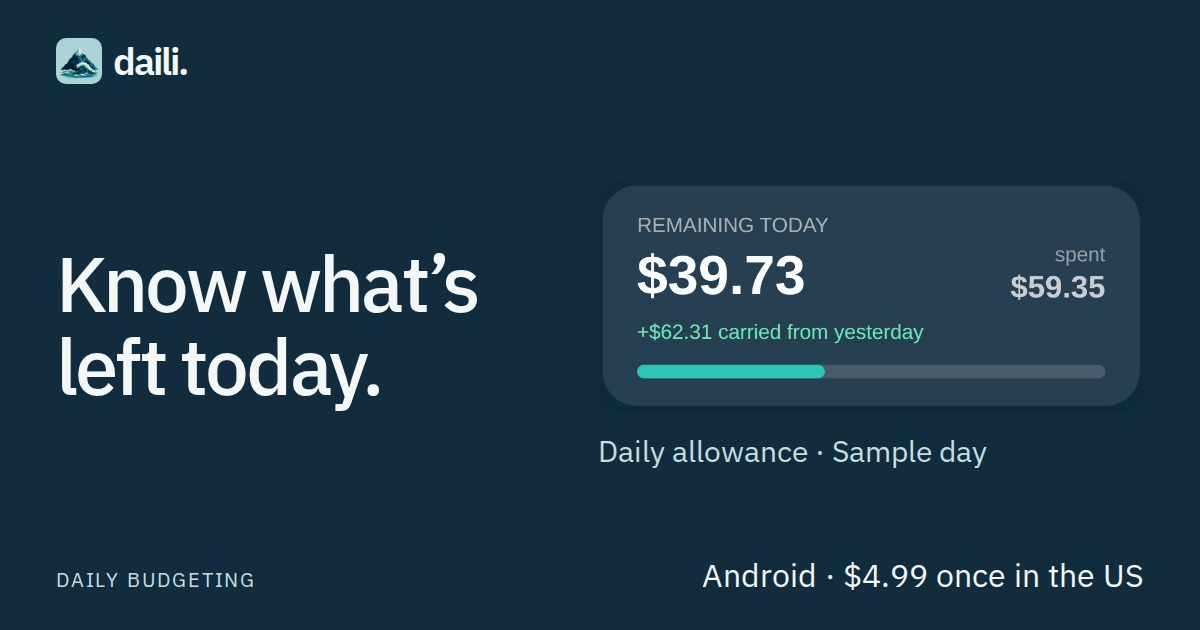
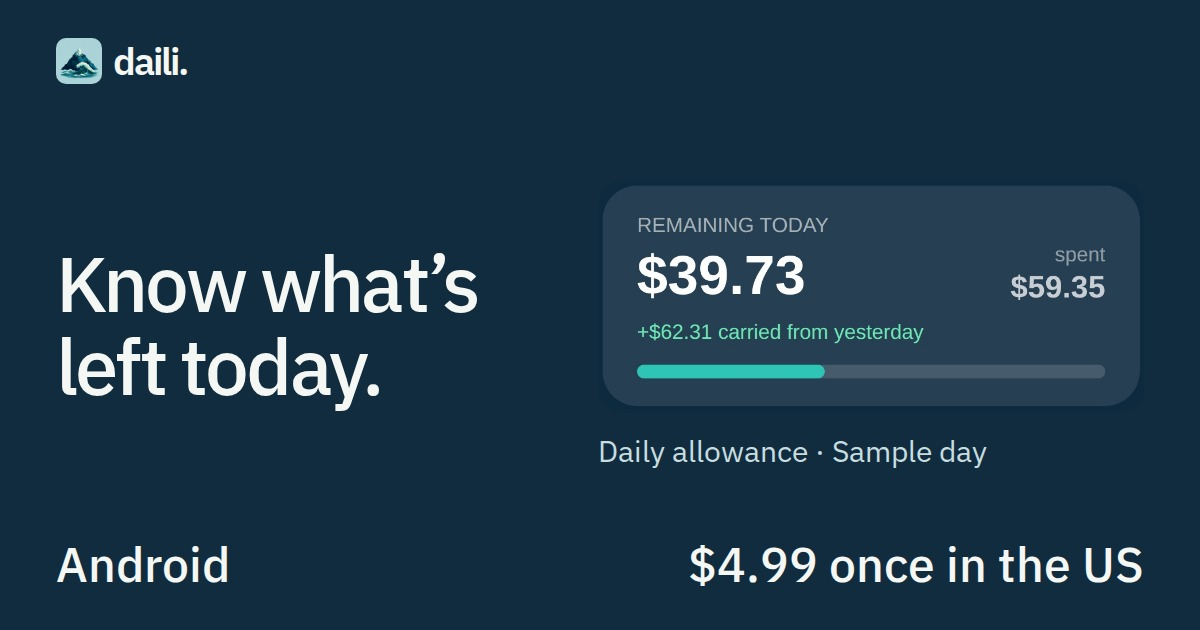
Publish website 1.1.5 (#10)
Move the monthly-budget explanation and daily allowance calculator before receipt and voice entry. Simplify the public demo captions and refresh the social-share image with clearer Android and price text.

Publish the approved website 1.1.5 export through the existing GitHub Pages site. The change is limited to `docs/app/index.html` and `docs/app/assets/share.jpg`.

Validation: desktop, 360px, and 320px browser checks passed for section order, calculator results and invalid inputs, demo playback/captions, FAQs, Google Play destinations, and no-JavaScript access. All 19 served files match the production build hashes. Public review/download routes return 404, and all files outside `docs/app/` match the existing repository.

Changed region(s): [[0.555, 0.8444, 0.9558, 0.9349], [0.0308, 0.8746, 0.2158, 0.9349]]

diff --git a/docs/app/index.html b/docs/app/index.html
@@ -1,7 +1,8 @@
 <!doctype html><html lang="en"><head><meta charset="utf-8"><meta name="viewport" content="width=device-width, initial-scale=1"><meta name="theme-color" content="#f5f7f4"><meta name="referrer" content="strict-origin-when-cross-origin"><title>Daili — Know what’s left today.</title><meta name="description" content="A clear daily allowance. Private expense tracking. Daili for Android is $4.99 once in the US, with no account, bank connection, or subscription."><meta name="robots" content="index, follow"><link rel="canonical" href="https://corbincald.github.io/daili/app/"><meta property="og:type" content="website"><meta property="og:title" content="Daili — Know what’s left today."><meta property="og:description" content="A clear daily allowance. Private expense tracking. Daili for Android is $4.99 once in the US, with no account, bank connection, or subscription."><meta property="og:url" content="https://corbincald.github.io/daili/app/"><meta property="og:image" content="https://corbincald.github.io/daili/app/assets/share.jpg"><meta property="og:image:width" content="1200"><meta property="og:image:height" content="630"><meta name="twitter:card" content="summary_large_image"><link rel="icon" href="./assets/icon.png"><link rel="stylesheet" href="./styles.css"><link rel="preload" href="./assets/fonts/ibm-plex-sans-latin.woff2" as="font" type="font/woff2" crossorigin></head><body><a class="skip-link" href="#main">Skip to content</a>
   <header class="header wrap"><a class="brand" href="./" aria-label="Daili home"><img src="./assets/icon.png" width="38" height="38" alt=""><span>daili<span class="brand-dot">.</span></span></a><nav aria-label="Main"><a href="#how-it-works">How it works</a><a href="#expense-entry">Expense entry</a><a href="#privacy">Why Daili</a><a href="#questions">Questions</a></nav><a class="nav-cta" href="#get-daili">Get Daili <span aria-hidden="true">↗</span></a></header>
   <main id="main"><section class="hero wrap" aria-labelledby="hero-title"><div class="hero-copy"><p class="eyebrow">DAILY BUDGETING FOR ANDROID</p><h1 id="hero-title">Know what’s<br><em>left today.</em></h1><p class="hero-description">Your monthly budget, broken down day-by-day. Type an expense, scan a receipt, or use English voice entry. See what’s left before your next purchase.</p><p class="hero-ownership">No account. No bank connection. No subscription.</p><div class="hero-actions"><a class="button " data-play-link data-placement="hero" href="https://play.google.com/store/apps/details?id=com.corbincald.daili&amp;utm_source=website&amp;utm_campaign=daili_relaunch_2026_today">Get Daili for Android<span aria-hidden="true">↗</span></a><a class="text-link" href="#daily-demo">Try the daily idea <span aria-hidden="true">↓</span></a></div><p class="purchase-note">$4.99 once in the US. Yours without a subscription.</p></div><div class="hero-art"><div class="phone hero-phone"><div class="phone-display"><div class="phone-status-bar" aria-hidden="true"><span>9:41</span><span class="status-camera"></span><svg class="status-icons" viewBox="0 0 52 16" fill="currentColor"><path d="M1 5a12 12 0 0 1 16 0l-8 9z"/><path d="M22 14V10h3v4zm5 0V6h3v8zm5 0V2h3v12z"/><path d="M42 1h4v2h3v12H39V3h3z"/></svg></div><img src="./assets/today.jpg" width="1080" height="2400" alt="Daili’s Today screen: $39.73 remaining, $59.35 spent, and $62.31 carried from yesterday. Sample expenses." fetchpriority="high"></div></div><span class="image-caption">Actual app · Sample day</span></div></section>
-  <div class="trust-strip"><div class="wrap"><span><i aria-hidden="true">✓</i> One-time purchase</span><span><i aria-hidden="true">✓</i> No bank connection</span><span><i aria-hidden="true">✓</i> No in-app ads</span><span><i aria-hidden="true">✓</i> No account needed</span></div></div><section class="entry-section" id="expense-entry" aria-labelledby="entry-title">
+  <div class="trust-strip"><div class="wrap"><span><i aria-hidden="true">✓</i> One-time purchase</span><span><i aria-hidden="true">✓</i> No bank connection</span><span><i aria-hidden="true">✓</i> No in-app ads</span><span><i aria-hidden="true">✓</i> No account needed</span></div></div><section class="section wrap" id="how-it-works" aria-labelledby="how-title"><div class="section-intro"><p class="eyebrow">FROM PLAN TO DAILY ALLOWANCE</p><h2 id="how-title">Make your plan.<br><em>See your day.</em></h2><p>You don’t need another spreadsheet to keep up with. Just a plan, your everyday expenses, and a moment to check in.</p></div><div class="steps"><article><span class="step-number">01 / MAKE A LITTLE ROOM</span><h3>Start with your month.</h3><p>Set a monthly spending cap and recurring expenses. Daili turns what’s left into your daily allowance.</p><div class="step-line" aria-hidden="true"><span>MONTHLY PLAN</span><span>→</span><strong>TODAY</strong></div></article><article><span class="step-number">02 / LIVE YOUR DAY</span><h3>A coffee. A bus. A bite.</h3><p>Log purchases as you go. Add them by hand, scan a receipt, or use optional English voice entry.</p><div class="expense-mini" aria-hidden="true"><span>Morning coffee</span><strong>$4.75</strong></div></article><article><span class="step-number">03 / KEEP YOUR PERSPECTIVE</span><h3>Tomorrow comes with you.</h3><p>Spend a little less or a little more? Your rollover carries it forward. Check your pace across the bigger picture.</p><div class="step-line" aria-hidden="true"><span>YESTERDAY</span><span>↳</span><strong>TODAY</strong></div></article></div></section>
+  <section class="demo-section" id="daily-demo" aria-labelledby="demo-title"><div class="wrap demo-layout"><div><p class="eyebrow">LET’S MAKE IT TANGIBLE</p><h2 id="demo-title">A whole month.<br><em>A simpler number.</em></h2><p>Here’s the idea: start with your monthly plan, take out recurring expenses, and divide what’s left across the month.</p><p class="demo-note">Try this illustration. In Daili, your logged expenses and rollover update what’s left today.</p></div><div class="calculator"><form id="allowance-form"><div class="calculator-heading"><span>Your example month</span><span class="demo-tag">TRY IT</span></div><label for="monthly">Monthly spending cap <span>USD</span></label><div class="input-money"><span aria-hidden="true">$</span><input id="monthly" name="monthly" type="number" min="0" max="1000000" step="0.01" inputmode="decimal" value="2400" required></div><label for="recurring">Recurring expenses <span>USD</span></label><div class="input-money"><span aria-hidden="true">$</span><input id="recurring" name="recurring" type="number" min="0" max="1000000" step="0.01" inputmode="decimal" value="1200" required></div><label for="days">Days in this month</label><select id="days" name="days"><option>28</option><option>29</option><option selected>30</option><option>31</option></select><div class="allowance-result" aria-live="polite" aria-atomic="true"><span>YOUR STARTING DAILY ALLOWANCE</span><output id="daily-allowance" for="monthly recurring days">$40.00</output><p id="calculation-detail">$1,200.00 for everyday spending ÷ 30 days</p></div><p id="calculation-error" class="form-error" role="status" hidden></p><noscript><p>This interactive example needs JavaScript. The illustration above uses ($2,400 − $1,200) ÷ 30 = $40 a day.</p></noscript></form><p class="local-note">Just an illustration. These numbers stay in this page.</p></div></div></section><section class="entry-section" id="expense-entry" aria-labelledby="entry-title">
     <div class="wrap">
       <div class="entry-heading">
         <div><p class="eyebrow">TWO MORE WAYS TO ADD AN EXPENSE</p><h2 id="entry-title">Everyday expenses.<br><em>Less typing.</em></h2></div>
@@ -12,20 +13,18 @@
           <p class="entry-method">FROM PAPER TO YOUR BUDGET</p>
           <h3 id="receipt-entry-title">Receipt Scanning</h3>
           <p>Capture a receipt to pick up the merchant, total, and line items. Review the details, make any edits, and save the expense.</p>
-          <figure class="feature-video"><div class="feature-video-stage"><video data-feature-demo="receipt" controls playsinline preload="none" width="900" height="1440" aria-label="Receipt Scanning demo with music" poster="./assets/demos/receipt-poster.jpg"><source src="./assets/demos/receipt.mp4" type="video/mp4"><track kind="captions" src="./assets/demos/receipt.vtt" srclang="en" label="English"><p>Your browser does not support video. <a href="./assets/demos/receipt.mp4">Open the Receipt Scanning demo</a>.</p></video></div><figcaption>12-second demo · Music: Side Street<br>Example expense · Review before saving.<br>Optional feature. Initial model download required.</figcaption><a class="text-link" href="./assets/demos/receipt.mp4" download>Download Receipt Scanning demo <span aria-hidden="true">↓</span></a></figure>
+          <figure class="feature-video"><div class="feature-video-stage"><video data-feature-demo="receipt" controls playsinline preload="none" width="900" height="1440" aria-label="Receipt Scanning demo with music" poster="./assets/demos/receipt-poster.jpg"><source src="./assets/demos/receipt.mp4" type="video/mp4"><track kind="captions" src="./assets/demos/receipt.vtt" srclang="en" label="English"><p>Your browser does not support video. <a href="./assets/demos/receipt.mp4">Open the Receipt Scanning demo</a>.</p></video></div><figcaption>12-second demo<br>Example expense · Review before saving.<br>Optional feature. Initial model download required.</figcaption></figure>
           <ol class="entry-flow" aria-label="Receipt scanning steps"><li>Scan</li><li>Review</li><li>Save</li></ol>
         </article>
         <article class="entry-card" aria-labelledby="voice-entry-title">
           <p class="entry-method">SAY WHAT YOU SPENT</p>
           <h3 id="voice-entry-title">Voice Expense Entry</h3>
           <p>Speak an expense in English instead of typing it out. Review the recognized details and make any corrections before saving.</p>
-          <figure class="feature-video"><div class="feature-video-stage"><video data-feature-demo="voice" controls playsinline preload="none" width="900" height="1440" aria-label="Voice Expense Entry demo with music" poster="./assets/demos/voice-poster.jpg"><source src="./assets/demos/voice.mp4" type="video/mp4"><track kind="captions" src="./assets/demos/voice.vtt" srclang="en" label="English"><p>Your browser does not support video. <a href="./assets/demos/voice.mp4">Open the Voice Expense Entry demo</a>.</p></video></div><figcaption>8-second demo · Music: Steady Day<br>Example expense · Review before saving.<br>Optional feature. Initial model download required.</figcaption><a class="text-link" href="./assets/demos/voice.mp4" download>Download Voice Expense Entry demo <span aria-hidden="true">↓</span></a></figure>
+          <figure class="feature-video"><div class="feature-video-stage"><video data-feature-demo="voice" controls playsinline preload="none" width="900" height="1440" aria-label="Voice Expense Entry demo with music" poster="./assets/demos/voice-poster.jpg"><source src="./assets/demos/voice.mp4" type="video/mp4"><track kind="captions" src="./assets/demos/voice.vtt" srclang="en" label="English"><p>Your browser does not support video. <a href="./assets/demos/voice.mp4">Open the Voice Expense Entry demo</a>.</p></video></div><figcaption>8-second demo<br>Example expense · Review before saving.<br>Optional feature. Initial model download required.</figcaption></figure>
           <ol class="entry-flow" aria-label="Voice entry steps"><li>Speak</li><li>Review</li><li>Save</li></ol>
         </article>
       </div>
       <div class="entry-setup"><p><strong>Optional. On your device.</strong> Enable either feature in Settings and download its model first. After setup, recognition runs on your phone, even offline.</p><a class="text-link" href="#get-daili">Get Daili for Android <span aria-hidden="true">↗</span></a></div>
     </div>
-  </section><section class="section wrap" id="how-it-works" aria-labelledby="how-title"><div class="section-intro"><p class="eyebrow">FROM PLAN TO DAILY ALLOWANCE</p><h2 id="how-title">Make your plan.<br><em>See your day.</em></h2><p>You don’t need another spreadsheet to keep up with. Just a plan, your everyday expenses, and a moment to check in.</p></div><div class="steps"><article><span class="step-number">01 / MAKE A LITTLE ROOM</span><h3>Start with your month.</h3><p>Set a monthly spending cap and recurring expenses. Daili turns what’s left into your daily allowance.</p><div class="step-line" aria-hidden="true"><span>MONTHLY PLAN</span><span>→</span><strong>TODAY</strong></div></article><article><span class="step-number">02 / LIVE YOUR DAY</span><h3>A coffee. A bus. A bite.</h3><p>Log purchases as you go. Add them by hand, scan a receipt, or use optional English voice entry.</p><div class="expense-mini" aria-hidden="true"><span>Morning coffee</span><strong>$4.75</strong></div></article><article><span class="step-number">03 / KEEP YOUR PERSPECTIVE</span><h3>Tomorrow comes with you.</h3><p>Spend a little less or a little more? Your rollover carries it forward. Check your pace across the bigger picture.</p><div class="step-line" aria-hidden="true"><span>YESTERDAY</span><span>↳</span><strong>TODAY</strong></div></article></div></section>
-  <section class="demo-section" id="daily-demo" aria-labelledby="demo-title"><div class="wrap demo-layout"><div><p class="eyebrow">LET’S MAKE IT TANGIBLE</p><h2 id="demo-title">A whole month.<br><em>A simpler number.</em></h2><p>Here’s the idea: start with your monthly plan, take out recurring expenses, and divide what’s left across the month.</p><p class="demo-note">Try this illustration. In Daili, your logged expenses and rollover update what’s left today.</p></div><div class="calculator"><form id="allowance-form"><div class="calculator-heading"><span>Your example month</span><span class="demo-tag">TRY IT</span></div><label for="monthly">Monthly spending cap <span>USD</span></label><div class="input-money"><span aria-hidden="true">$</span><input id="monthly" name="monthly" type="number" min="0" max="1000000" step="0.01" inputmode="decimal" value="2400" required></div><label for="recurring">Recurring expenses <span>USD</span></label><div class="input-money"><span aria-hidden="true">$</span><input id="recurring" name="recurring" type="number" min="0" max="1000000" step="0.01" inputmode="decimal" value="1200" required></div><label for="days">Days in this month</label><select id="days" name="days"><option>28</option><option>29</option><option selected>30</option><option>31</option></select><div class="allowance-result" aria-live="polite" aria-atomic="true"><span>YOUR STARTING DAILY ALLOWANCE</span><output id="daily-allowance" for="monthly recurring days">$40.00</output><p id="calculation-detail">$1,200.00 for everyday spending ÷ 30 days</p></div><p id="calculation-error" class="form-error" role="status" hidden></p><noscript><p>This interactive example needs JavaScript. The illustration above uses ($2,400 − $1,200) ÷ 30 = $40 a day.</p></noscript></form><p class="local-note">Just an illustration. These numbers stay in this page.</p></div></div></section>
-  <section class="section wrap feature-pair" aria-labelledby="pace-title"><div class="pace-art"><div class="phone "><div class="phone-display"><img src="./assets/pace.png" width="1080" height="2424" alt="Daili’s Long-Term Week view in Deep Tide, captured on a Pixel 10 with example expenses: $260 spent, $1,740 budget left and $73.33 ahead of plan. The teal spending line sits below the dashed plan." loading="lazy"></div></div><span class="image-caption">REAL APP. SAMPLE EXPENSES.</span></div><div class="feature-copy"><p class="eyebrow">TODAY, WITH SOME PERSPECTIVE</p><h2 id="pace-title">See the month.<br><em>Keep perspective.</em></h2><p>See your spending pace over the week, month, or year. Look at the categories behind it. Get a clearer view of your habits, one everyday expense at a time.</p><ul class="check-list"><li>Daily allowance with rollover</li><li>Recurring expenses in your monthly plan</li><li>Spending history and category insights</li></ul><a class="text-link" href="#get-daili">Get Daili for Android <span aria-hidden="true">↗</span></a></div></section>
+  </section><section class="section wrap feature-pair" aria-labelledby="pace-title"><div class="pace-art"><div class="phone "><div class="phone-display"><img src="./assets/pace.png" width="1080" height="2424" alt="Daili’s Long-Term Week view in Deep Tide, captured on a Pixel 10 with example expenses: $260 spent, $1,740 budget left and $73.33 ahead of plan. The teal spending line sits below the dashed plan." loading="lazy"></div></div><span class="image-caption">REAL APP. SAMPLE EXPENSES.</span></div><div class="feature-copy"><p class="eyebrow">TODAY, WITH SOME PERSPECTIVE</p><h2 id="pace-title">See the month.<br><em>Keep perspective.</em></h2><p>See your spending pace over the week, month, or year. Look at the categories behind it. Get a clearer view of your habits, one everyday expense at a time.</p><ul class="check-list"><li>Daily allowance with rollover</li><li>Recurring expenses in your monthly plan</li><li>Spending history and category insights</li></ul><a class="text-link" href="#get-daili">Get Daili for Android <span aria-hidden="true">↗</span></a></div></section>
   <section class="privacy-section" id="privacy" aria-labelledby="privacy-title"><div class="wrap"><p class="eyebrow">YOUR BUDGET. YOUR BUSINESS.</p><div class="privacy-heading"><h2 id="privacy-title">Your budget.<br><em>Your own control.</em></h2><p>A budget app should help you mind your money.<br>And mind its own business.</p></div><div class="privacy-grid"><article><span class="privacy-symbol" aria-hidden="true">01</span><h3>Private by design.</h3><p>No account, bank connection, advertising, or in-app analytics. Your financial records aren’t sent to the developer.</p></article><article><span class="privacy-symbol" aria-hidden="true">02</span><h3>Offline, on purpose.</h3><p>Manual budgeting works offline. Choose receipt scanning or English voice entry, download the models, and process entries on your phone.</p></article><article><span class="privacy-symbol" aria-hidden="true">03</span><h3>One purchase. No subscription.</h3><p>One $4.99 purchase in the US. No subscription, in-app purchases, or premium tier to unlock.</p></article></div></div></section><section class="section wrap faq-section" id="questions" aria-labelledby="faq-title"><div><p class="eyebrow">A FEW LITTLE DETAILS</p><h2 id="faq-title">Good<br><em>questions.</em></h2><p>Something else on your mind?<br><a class="text-link" href="mailto:corbin.caldwell@gmail.com">Ask the developer <span aria-hidden="true">↗</span></a></p></div><div class="questions"><details><summary>Is Daili a subscription?<span aria-hidden="true">+</span></summary><div class="answer"><p>No. Daili is a one-time purchase: $4.99 in the US at our last price check. Google Play shows the current price, currency, and any applicable taxes for your region. There are no in-app purchases.</p></div></details><details><summary>Does Daili connect to my bank?<span aria-hidden="true">+</span></summary><div class="answer"><p>No bank connection or Daili account is needed. You choose a monthly plan and add your expenses. Daili gives you a daily allowance based on the information you enter.</p></div></details><details><summary>Can I use it without an internet connection?<span aria-hidden="true">+</span></summary><div class="answer"><p>Yes. Manual budgeting works offline. Optional receipt scanning and voice entry need an initial model download. The models then process your entries on your device. Reinstalling or re-enabling a feature can require another download.</p></div></details><details><summary>How do voice and receipt entry work?<span aria-hidden="true">+</span></summary><div class="answer"><p>Enable the feature you want in Settings and download its model. Voice entry supports English. Scan a receipt or speak an expense, then review the result before saving. Recognition can make mistakes; check amounts and details.</p></div></details><details><summary>What happens when I go over my allowance?<span aria-hidden="true">+</span></summary><div class="answer"><p>Daili carries underspending or overspending forward as rollover. Your next day’s available amount reflects it, so your monthly plan stays in view. The allowance reflects what you enter; it is not a guarantee of what you can afford.</p></div></details><details><summary>Which phones can use Daili?<span aria-hidden="true">+</span></summary><div class="answer"><p>Daili is available for Android 8.0 and later. Google Play checks compatibility with your specific device. Optional AI features require additional storage and their speed varies by device. Daili is not available for iPhone.</p></div></details><details><summary>What about my data?<span aria-hidden="true">+</span></summary><div class="answer"><p>The developer does not receive your budget records, photos, or microphone audio. Review the <a href="https://corbincald.github.io/daili/">app privacy policy</a> for local storage, model downloads, deletion, and the data behavior of your installed version.</p></div></details></div></section><section class="closing-section wrap" id="get-daili" aria-labelledby="closing-title"><p class="eyebrow">START WITH TODAY</p><h2 id="closing-title">A daily budget.<br><em>One purchase.</em></h2><p>Know what’s left today, with the month in view.</p><a class="button " data-play-link data-placement="closing" href="https://play.google.com/store/apps/details?id=com.corbincald.daili&amp;utm_source=website&amp;utm_campaign=daili_relaunch_2026_today">Get Daili on Google Play<span aria-hidden="true">↗</span></a><p class="purchase-note">$4.99 once in the US · Android only · No subscription</p></section></main><footer class="footer wrap"><a class="brand" href="./" aria-label="Daili home"><img src="./assets/icon.png" width="38" height="38" alt=""><span>daili<span class="brand-dot">.</span></span></a><p>A little clarity, every day.</p><nav aria-label="Footer"><a href="https://corbincald.github.io/daili/">App privacy</a><a href="./website-privacy.html">Website privacy</a><a href="mailto:corbin.caldwell@gmail.com">Support</a></nav><small>© 2026 Corbin Caldwell. Google Play is a trademark of Google LLC.</small></footer><script type="application/ld+json">{"@context":"https://schema.org","@type":"SoftwareApplication","name":"Daili: Daily Budget Tracker","operatingSystem":"Android 8.0+","applicationCategory":"FinanceApplication","url":"https://corbincald.github.io/daili/app/","downloadUrl":"https://play.google.com/store/apps/details?id=com.corbincald.daili","description":"A private daily budget and expense tracker for Android. One-time purchase, no subscription.","offers":{"@type":"Offer","price":"4.99","priceCurrency":"USD","url":"https://play.google.com/store/apps/details?id=com.corbincald.daili","eligibleRegion":{"@type":"Country","name":"United States"}}}</script><script type="module" src="./app.mjs"></script></body></html>
